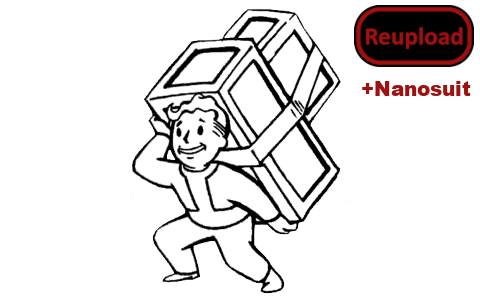
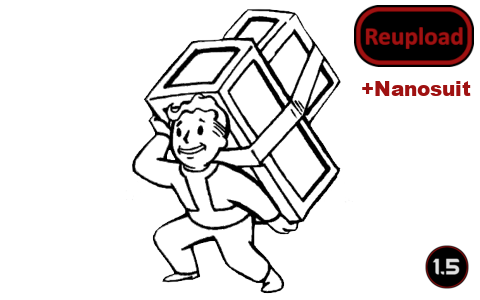
Mod updated for 1.5 and passed autotests

Changed region(s): [[0.875, 0.81, 1.0, 0.96]]

diff --git a/README.md b/README.md
@@ -52,11 +52,13 @@ Shoutout to Proxyer who did the japanese translation. All credits for that go to
 
 -  See if the the error persists if you just have this mod and its requirements active.
 -  If not, try adding your other mods until it happens again.
--  Post your error-log using https://steamcommunity.com/workshop/filedetails/?id=818773962]HugsLib and command Ctrl+F12
+-  Post your error-log using https://steamcommunity.com/workshop/filedetails/?id=818773962]HugsLib or the standalone https://steamcommunity.com/sharedfiles/filedetails/?id=2873415404]Uploader and command Ctrl+F12
 -  For best support, please use the Discord-channel for error-reporting.
 -  Do not report errors by making a discussion-thread, I get no notification of that.
 -  If you have the solution for a problem, please post it to the GitHub repository.
+-  Use https://github.com/RimSort/RimSort/releases/latest]RimSort to sort your mods
 
 
 
+https://steamcommunity.com/sharedfiles/filedetails/changelog/2014570220]![Image](https://img.shields.io/github/v/release/emipa606/MercersBackpacksNanoSuit?label=latest%20version&style=plastic&color=9f1111&labelColor=black)
 
